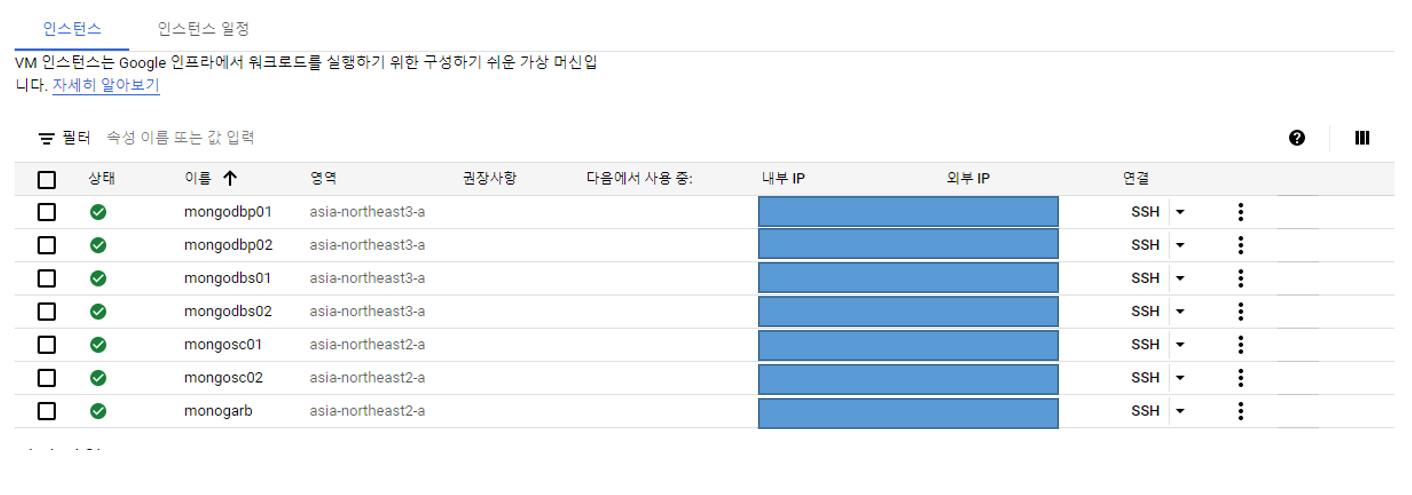
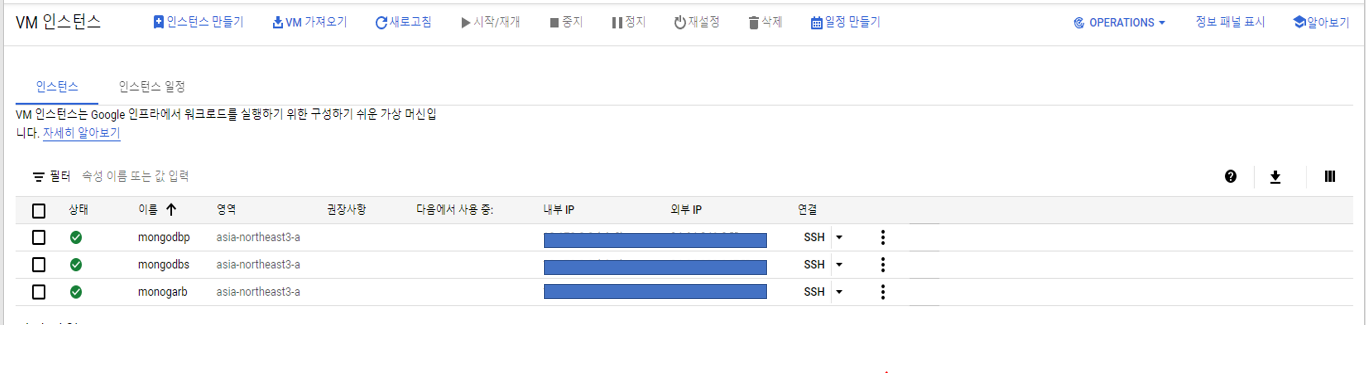
mongo cluster 구성 내용수정

diff --git a/_posts/2021-07-19-Mongo Cluster 구성.md b/_posts/2021-07-19-Mongo Cluster 구성.md
@@ -14,7 +14,7 @@ redirect_from:
 
 ## Pre Setting  
 ### GCP 노드생성  
-GCP 클라우드에서 mongo P-S-A 구성을 위한 노드 5대, config,mongos를 위한 노드 2대 서버를 생성한다.   
+GCP 클라우드에서 mongo P-S-A 구성을 위해서 Primary 노드 1대, Secondaray 노드 1대, Arbiter 노드 1대로 구성  
 <img src="https://sisipapa.github.io/assets/images/posts/gcp-mongo.PNG" >  
 
 ### Mongo 설치
@@ -62,34 +62,29 @@ updates                                                                         
 
 ## Replicaset 노드 설정
 - hostname  
-Primary hostname: mongodbp01, mongodbp02  
-Secondary hostname: mongodbs01, mongodbs02  
+Primary hostname: mongodbp  
+Secondary hostname: mongodbs  
 Arbiter hostname: monogarb  
   
 - Replicaset 구성  
-rs0 – mongodbp01:27018, mongodbs01:27018, mongoarb:27021  
-rs1 – mongodbp02:27018, mongodbs02:27018, mongoarb:27022  
+rs0 – mongodbp:27018, mongodbs:27018, mongoarb:27021    
+rs1 – mongodbp:27028, mongodbs:27028, mongoarb:27022   
+rs1 – mongodbp:27038, mongodbs:27038, mongoarb:27023  
   
-- port 구성  
-27017 : MongoDB의 기본 포트 번호이자 샤드를 구성할 때 Mongos가 이용하는 포트 번호  
-27018 : 샤드를 구성할 때 샤드 서버들이 사용하는 포트번호  
-27019 : Config 서버들이 사용하는 포트 번호  
-
 ### Replicaset mongod.conf
-home 디렉토리 하위에 conf 디렉토리를 생성하고 mongod.conf 파일을 생성.  
+Primary - mongodbp0.conf, mongodbp1.conf, mongodbp2.conf
+Secondary - mongodbs0.conf, mongodbs1.conf, mongodbs2.conf
 ```shell
-$ vi /etc/mongod.conf  
+$ vi /home/mongo/mongodbp0.conf  
 
 # for documentation of all options, see:
-#   http://docs.mongodb.org/manual/reference/configuration-options/
-# where to write logging data.
 systemLog:
   destination: file
   logAppend: true
-  path: /var/log/mongodb/mongod.log
+  path: /var/log/mongodb/mongod_p0.log
 # Where and how to store data.
 storage:
-  dbPath: /var/lib/mongo
+  dbPath: /var/lib/mongo/p0
   journal:
     enabled: true
     commitIntervalMs: 200
@@ -106,7 +101,7 @@ storage:
 # how the process runs
 processManagement:
   fork: true  # fork and run in background
-  pidFilePath: /var/run/mongodb/mongod.pid  # location of pidfile
+  pidFilePath: /var/run/mongodb/mongod_p0.pid  # location of pidfile
   timeZoneInfo: /usr/share/zoneinfo
 # network interfaces
 net:
@@ -126,14 +121,28 @@ sharding:
 ```  
 노드별로 수정해야 할 부분(replication.replSetName)  
 ```shell
+systemLog:
+...
+  path: /var/log/mongodb/mongod_p0.log
+...
+storage:
+  dbPath: /var/lib/mongo/p0
+...
+processManagement:
+  ...
+  pidFilePath: /var/run/mongodb/mongod_p0.pid  # location of pidfile
+...
+net:
+  port: 27018
+...
 ...
 replication:
   replSetName: "rs0"
-...  
+...
 ```  
 
-### Arbiter mongod.conf(rs0,rs1)
-mongod0.conf, mongod1.conf 두개의 Arbiter 설정파일을 생성.  
+### Arbiter mongod.conf
+mongodba0.conf, mongodbp1.conf, mongodbp2.conf 세개의 Arbiter 설정파일을 생성.  
 ```shell
 $ vi /etc/mongod0.conf
 # for documentation of all options, see:
@@ -211,22 +220,40 @@ $ mongod -f conf/mongod1.conf
 
 ### Replicaset 구성  
 ```shell
+$ mongo --port 27018
 > rs.initiate( {
    _id : "rs0",
    members: [
-      { _id: 0, host: "mongodbp01:27018" },
-      { _id: 1, host: "mongodbs01:27018" },
-      { _id: 2, host: "mongoarb:27021", arbiterOnly:true }
+      { _id: 0, host: "mongodbp:27018" },
+      { _id: 1, host: "mongodbs:27018" },
+      { _id: 2, host: "monogarb:27021", arbiterOnly:true }
    ]
 })
-
-```
-
+{ "ok" : 1 }
 
 
+$ mongo --port 27028
+> rs.initiate( {
+   _id : "rs1",
+   members: [
+      { _id: 0, host: "mongodbp:27028" },
+      { _id: 1, host: "mongodbs:27028" },
+      { _id: 2, host: "monogarb:27022", arbiterOnly:true }
+   ]
+})
+{ "ok" : 1 }
 
-
-
+$ mongo --port 27038
+> rs.initiate( {
+   _id : "rs2",
+   members: [
+      { _id: 0, host: "mongodbp:27038" },
+      { _id: 1, host: "mongodbs:27038" },
+      { _id: 2, host: "monogarb:27023", arbiterOnly:true }
+   ]
+})
+{ "ok" : 1 }
+```  
 
 ## 참고  
 [NCloud MongoDB Cluster 구성하기](https://guide.ncloud-docs.com/docs/database-database-10-3)  
